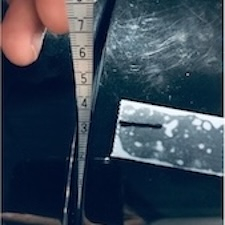
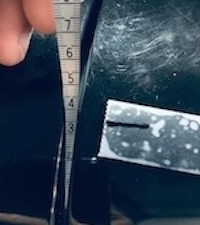
Replace static image with swiper container for dynamic presentation in gap_hcm_2018.md

diff --git a/_projects/gap_hcm_2018.md b/_projects/gap_hcm_2018.md
@@ -17,10 +17,10 @@ Accurate measurement of **Gap** (horizontal distance) and **Flush** (vertical di
 
 <div class="row justify-content-sm-center">
     <div class="col-sm-4 mt-3 mt-md-0">
-        {% include figure.liquid loading="eager" path="assets/img/projects/gap_hcm_2018/figure_gap_flush.gif" class="img-fluid rounded z-depth-1" %}
+        {% include figure.liquid loading="eager" path="assets/img/projects/gap_hcm_2018/figure_gap_flush.gif" class="img-fluid rounded z-depth-1" zoomable=true %}
     </div>
     <div class="col-sm-4 mt-3 mt-md-0">
-        {% include figure.liquid loading="eager" path="assets/img/projects/gap_hcm_2018/figure_02.jpg" class="img-fluid rounded z-depth-1" %}
+        {% include figure.liquid loading="eager" path="assets/img/projects/gap_hcm_2018/figure_02.jpg" class="img-fluid rounded z-depth-1" zoomable=true %}
     </div>
 </div>
 <div class="caption">
@@ -31,7 +31,7 @@ Developed in collaboration with **Hyundai Motor Company (Advanced Manufacturing 
 
 <div class="row justify-content-sm-center">
     <div class="col-sm-10 mt-3 mt-md-0">
-        {% include figure.liquid loading="eager" path="assets/img/projects/gap_hcm_2018/figure_01.jpg" class="img-fluid rounded z-depth-1" %}
+        {% include figure.liquid loading="eager" path="assets/img/projects/gap_hcm_2018/figure_01.jpg" class="img-fluid rounded z-depth-1" zoomable=true %}
     </div>
 </div>
 <div class="caption">
